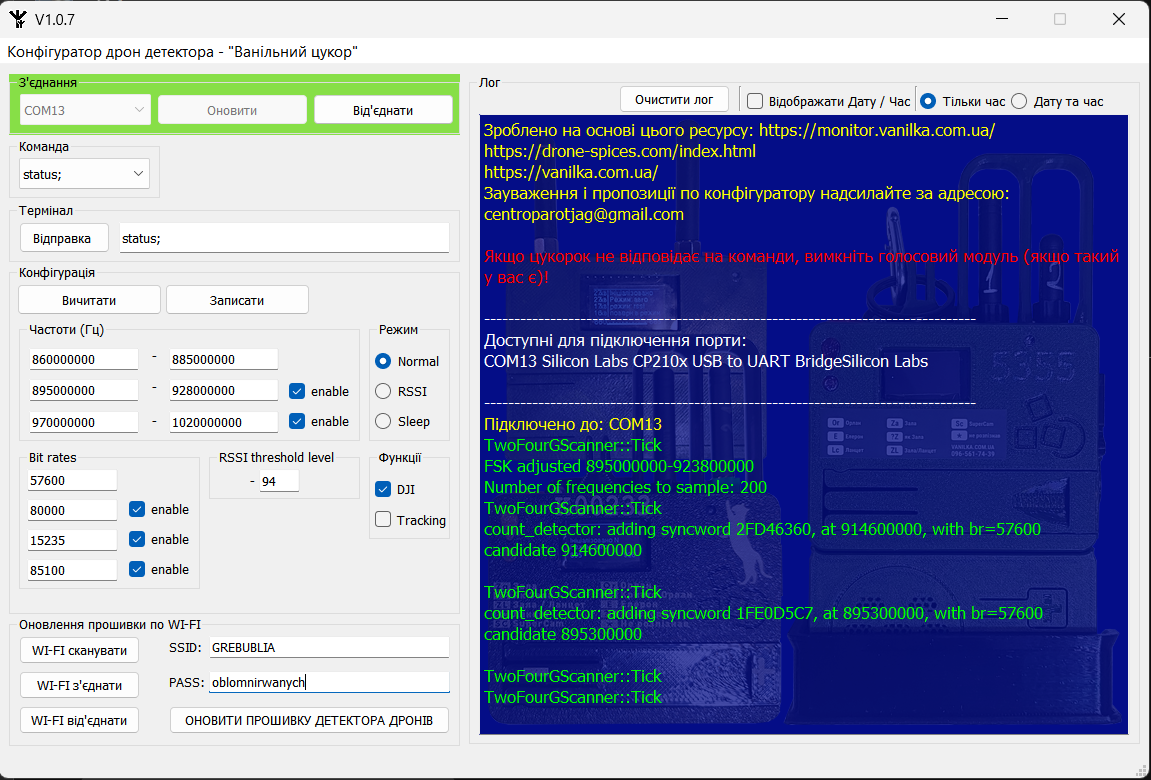
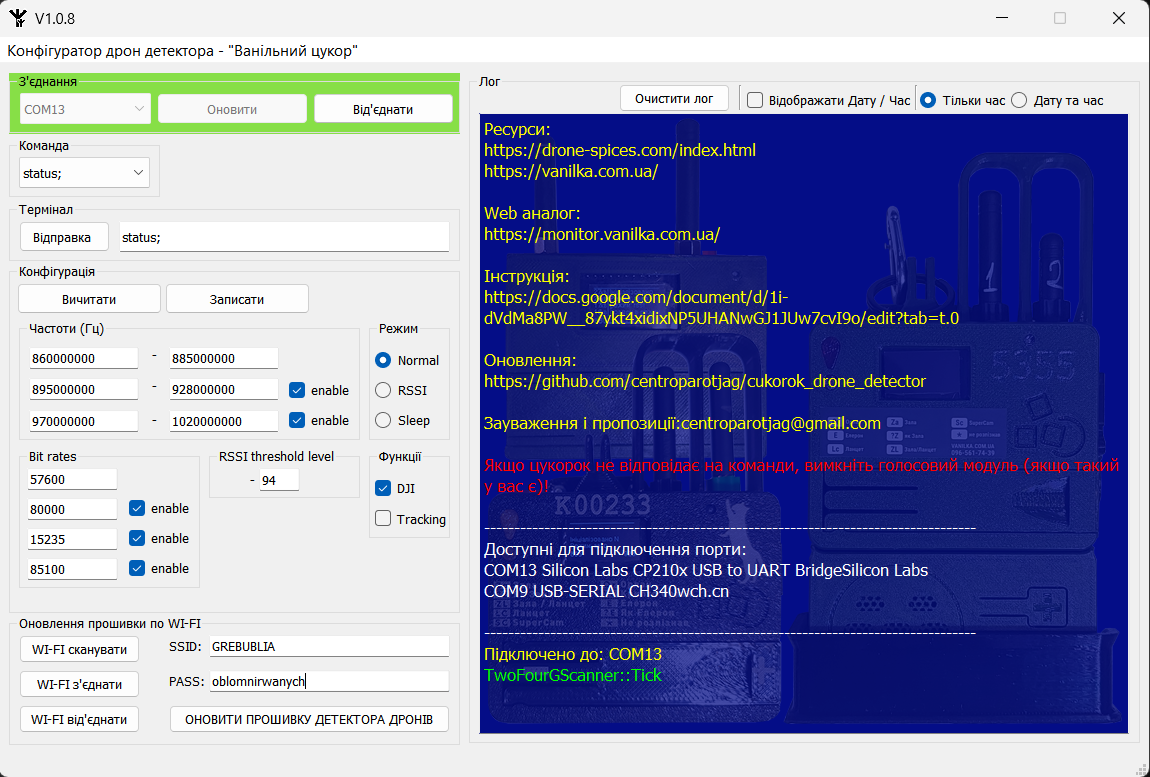
Update legend, screenshot sotware

diff --git a/mainwindow.cpp b/mainwindow.cpp
@@ -5,7 +5,7 @@
 
 int status_connect_com = 0;
 
-QString version ="V1.0.7";
+QString version ="V1.0.8";
 
 MainWindow::MainWindow(QWidget *parent)
     : QMainWindow(parent)
@@ -28,15 +28,19 @@ MainWindow::MainWindow(QWidget *parent)
 
     ui->textBrowser->setFontPointSize(10);
     ui -> textBrowser -> insertPlainText(get_date_time ("full"));
+    //--------------------------- Legend --------------------------------------
     ui->textBrowser->setTextColor(QColor(255, 255, 0));
-    ui -> textBrowser -> insertPlainText("Зроблено на основі цього ресурсу: https://monitor.vanilka.com.ua/\n");
+    ui -> textBrowser -> insertPlainText("Ресурси:\n");
     ui -> textBrowser -> insertPlainText("https://drone-spices.com/index.html\n");
-    ui -> textBrowser -> insertPlainText("https://vanilka.com.ua/\n");
+    ui -> textBrowser -> insertPlainText("https://vanilka.com.ua/\n\n");
+    ui -> textBrowser -> insertPlainText("Web аналог:\nhttps://monitor.vanilka.com.ua/\n\n");
+    ui -> textBrowser -> insertPlainText("Інструкція:\nhttps://docs.google.com/document/d/1i-dVdMa8PW__87ykt4xidixNP5UHANwGJ1JUw7cvI9o/edit?tab=t.0\n\n");
     ui->textBrowser->setTextColor(QColor(255, 255, 0));
-    ui -> textBrowser -> insertPlainText("Зауваження і пропозиції по конфігуратору надсилайте за адресою: centroparotjag@gmail.com\n");
+    ui -> textBrowser -> insertPlainText("Оновлення:\nhttps://github.com/centroparotjag/cukorok_drone_detector\n\n");
+    ui -> textBrowser -> insertPlainText("Зауваження і пропозиції:centroparotjag@gmail.com\n\n");
     ui->textBrowser->setTextColor(QColor(255, 0, 0));
-    ui -> textBrowser -> insertPlainText("\nЯкщо цукорок не відповідає на команди, вимкніть голосовий модуль (якщо такий у вас є)!\n");
-
+    ui -> textBrowser -> insertPlainText("Якщо цукорок не відповідає на команди, вимкніть голосовий модуль (якщо такий у вас є)!\n");
+    //--------------------------------------------------------------------------
     ui -> pushButton -> setText("З'єднати");
     //ui -> comboBox_2 -> setEnabled(0);        // відключений
     ui -> groupBox_2 -> setEnabled(0);          // відключений
